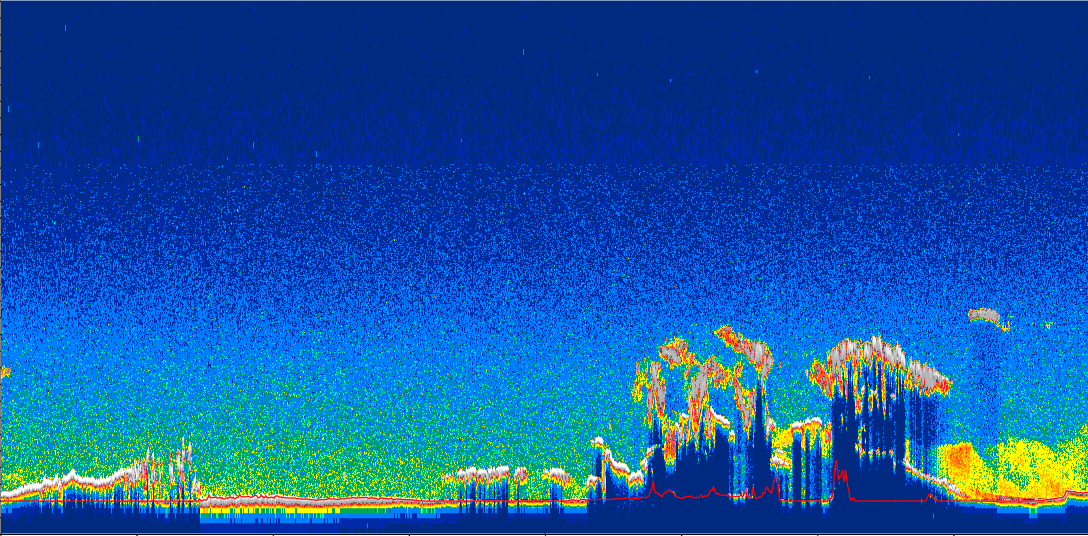
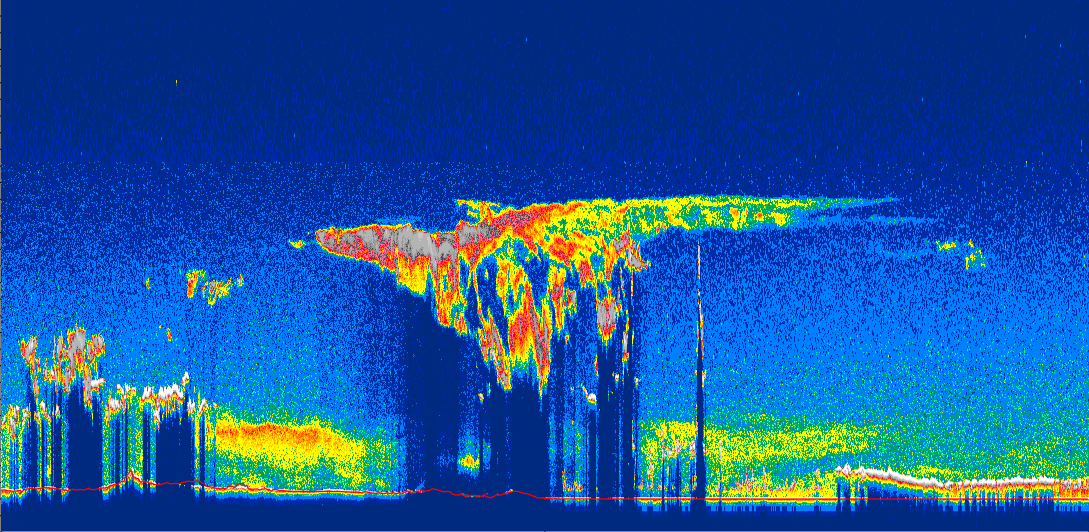
Now shows the nearest great circle distance profile on mouse-click:

diff --git a/Source/App.js b/Source/App.js
@@ -18,37 +18,164 @@ imageryProvider: provider, // The layer being shown
 sceneMode : Cesium.SceneMode.COLUMBUS_VIEW
 });
 
+var CalipsoData = {
+  "0": {
+        "img": "/CesiumDemo/CALIPSOData/0.png",
+        "coordinates": [
+            78.34,
+            48.92,
+            72.23,
+            35.42,
+            66.65,
+            27.8,
+            60.85,
+            22.88,
+            54.94,
+            19.35,
+            48.87,
+            16.62,
+            42.95,
+            14.38,
+            36.9,
+            12.47,
+            30.88,
+            10.79
+        ]
+    },
+    "1": {
+        "img": "/CesiumDemo/CALIPSOData/1.png",
+        "coordinates": [
+            30.83,
+            10.78,
+            24.74,
+            9.23,
+            18.65,
+            7.8,
+            12.54,
+            6.23,
+            6.42,
+            5.1,
+            0.31,
+            3.8,
+            -5.8,
+            2.5,
+            -11.91,
+            1.18,
+            -17.97,
+            -0.17
+        ]
+    },
+       "2": {
+        "img": "/CesiumDemo/CALIPSOData/2.png",
+        "coordinates": [
+            79.44,
+            152.18,
+            81.79,
+            116.30,
+            80.13,
+            77.58,
+            75.79,
+            56.04,
+            70.48,
+            44.95,
+            64.81,
+            38.40,
+            58.97,
+            34.01,
+            53.04,
+            30.77,
+            47.10,
+            28.23
+        ]
+    },
+};
+
+var scene = viewer.scene;
+
+var CALIPSOdata0 = viewer.entities.add({
+    name : 'CALIPSO Data 0',
+    id : '0',
+    wall : {
+      
+     positions : Cesium.Cartesian3.fromDegreesArray(CalipsoData["0"].coordinates), 
+        maximumHeights : [ 2000000,2000000, 2000000, 2000000,2000000,2000000, 2000000,2000000,2000000],
+        
+       material : CalipsoData["0"].img,
+       show: false
+}
+});
+
+      
 var CALIPSOdata1 = viewer.entities.add({
     name : 'CALIPSO Data 1',
+    id : '1',
     wall : {
-        positions : Cesium.Cartesian3.fromDegreesArrayHeights([78.34,48.92, 2000000.0,
-                                                               72.23, 35.42,2000000.0,
-                                                               66.65,27.80, 2000000.0,
-                                                               60.85,22.88, 2000000.0,
-                                                               54.94,19.35, 2000000.0,
-                                                               48.87,16.62, 2000000.0,
-                                                               42.95,14.38, 2000000.0,
-                                                               36.90,12.47, 2000000.0,
-                                                               30.88,10.79, 2000000.0]),
-        //minimumHeights : [100000.0, 100000.0, 100000.0, 100000.0],
-        material : "/CesiumDemo/CALIPSOData/1.png"
+           positions : Cesium.Cartesian3.fromDegreesArray(CalipsoData["1"].coordinates),
+
+
+        maximumHeights : [ 2000000,2000000, 2000000, 2000000,2000000,2000000, 2000000,2000000,2000000],
+        material : CalipsoData["1"].img,
+        show: false
     }
 });
+
 var CALIPSOdata2 = viewer.entities.add({
     name : 'CALIPSO Data 2',
+    id : '2',
     wall : {
-        positions : Cesium.Cartesian3.fromDegreesArrayHeights([30.83,10.78, 2000000.0,
-                                                               24.74, 9.23,2000000.0,
-                                                               18.65,7.80, 2000000.0,
-                                                               12.54,6.23, 2000000.0,
-                                                               6.42,5.10, 2000000.0,
-                                                               0.31,3.80, 2000000.0,
-                                                               -5.8,2.50, 2000000.0,
-                                                               -11.91,1.18, 2000000.0,
-                                                               -17.97,-0.17, 2000000.0]),
-        //minimumHeights : [100000.0, 100000.0, 100000.0, 100000.0],
-        material : "/CesiumDemo/CALIPSOData/2.png"
+           positions : Cesium.Cartesian3.fromDegreesArray(CalipsoData["2"].coordinates),
+
+
+        maximumHeights : [ 2000000,2000000, 2000000, 2000000,2000000,2000000, 2000000,2000000,2000000],
+        material : CalipsoData["2"].img,
+        show: false
+
     }
 });
 
+    var entity = viewer.entities.add({
+        label : {
+            show : false
+        }
+    });
 
+
+var ellipsoid = scene.globe.ellipsoid;
+     handler = new Cesium.ScreenSpaceEventHandler(scene.canvas);
+    handler.setInputAction(function(movement) {
+        var cartesian = viewer.camera.pickEllipsoid(movement.position, ellipsoid);
+        if (cartesian) {
+            var cartographic = ellipsoid.cartesianToCartographic(cartesian);
+            var longitudeString = Cesium.Math.toDegrees(cartographic.longitude).toFixed(2);
+            var latitudeString = Cesium.Math.toDegrees(cartographic.latitude).toFixed(2);
+
+            entity.position = cartesian;
+            entity.label.show = true;
+            entity.label.text = '(' + longitudeString + ', ' + latitudeString + ')';
+            //Logic to decide which Lidar Profile to show
+            var dist0 = Math.acos(Math.sin(latitudeString) * Math.sin(CalipsoData["0"].coordinates[0]) + Math.cos(latitudeString) * Math.cos(CalipsoData["0"].coordinates[0]) * Math.cos(Math.abs(longitudeString - CalipsoData["0"].coordinates[1]))) * 6371;
+            var dist1 = Math.acos(Math.sin(latitudeString) * Math.sin(CalipsoData["1"].coordinates[0]) + Math.cos(latitudeString) * Math.cos(CalipsoData["1"].coordinates[0]) * Math.cos(Math.abs(longitudeString - CalipsoData["1"].coordinates[1]))) * 6371;
+            var dist2 = Math.acos(Math.sin(latitudeString) * Math.sin(CalipsoData["2"].coordinates[0]) + Math.cos(latitudeString) * Math.cos(CalipsoData["2"].coordinates[0]) * Math.cos(Math.abs(longitudeString - CalipsoData["2"].coordinates[1]))) * 6371;
+            var minDist = Math.min(dist0,dist1,dist2);
+            console.log("Min. Distance = "+minDist+"km.");
+            if(minDist == dist0){
+                CALIPSOdata0.wall.show = true;
+                CALIPSOdata1.wall.show = false;
+                CALIPSOdata2.wall.show = false;
+              }
+            else if (minDist == dist1){
+                CALIPSOdata1.wall.show = true;
+                CALIPSOdata2.wall.show = false;
+                CALIPSOdata0.wall.show = false;
+              }
+            else {
+                CALIPSOdata2.wall.show = true;
+                CALIPSOdata1.wall.show = false;
+                CALIPSOdata0.wall.show = false;
+              }
+
+
+        } else {
+            entity.label.show = false;
+        }
+    }, Cesium.ScreenSpaceEventType.LEFT_CLICK);
